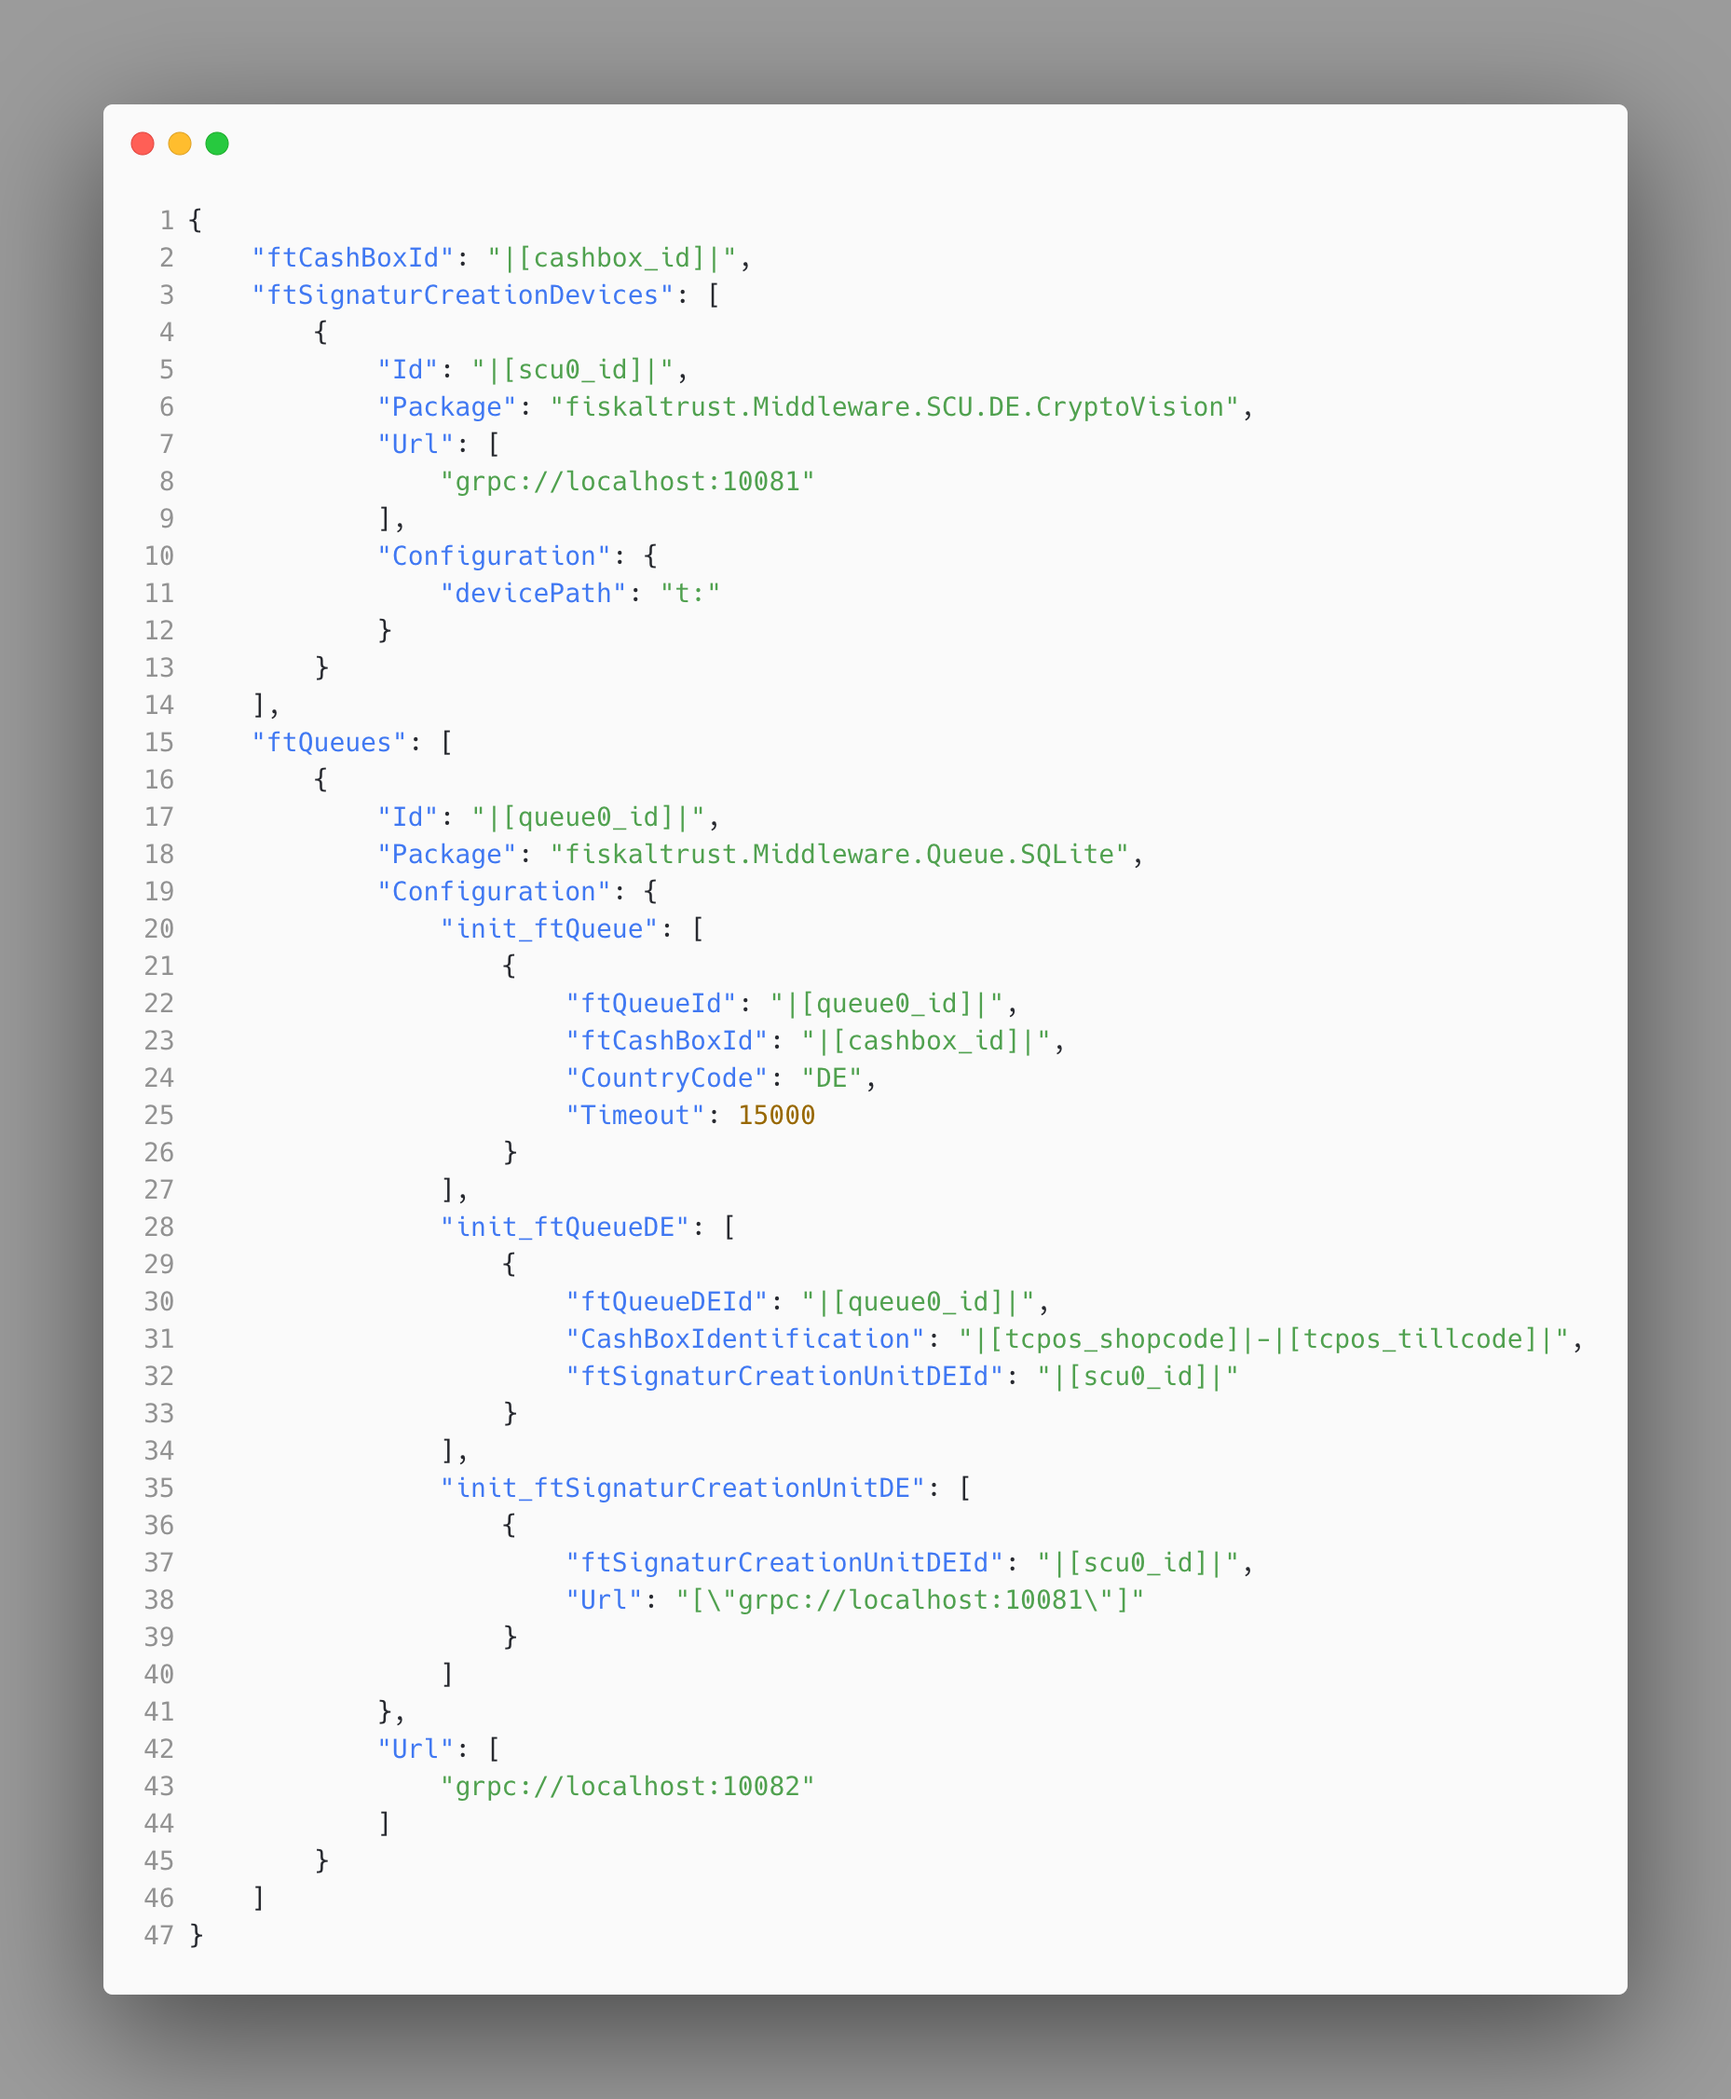
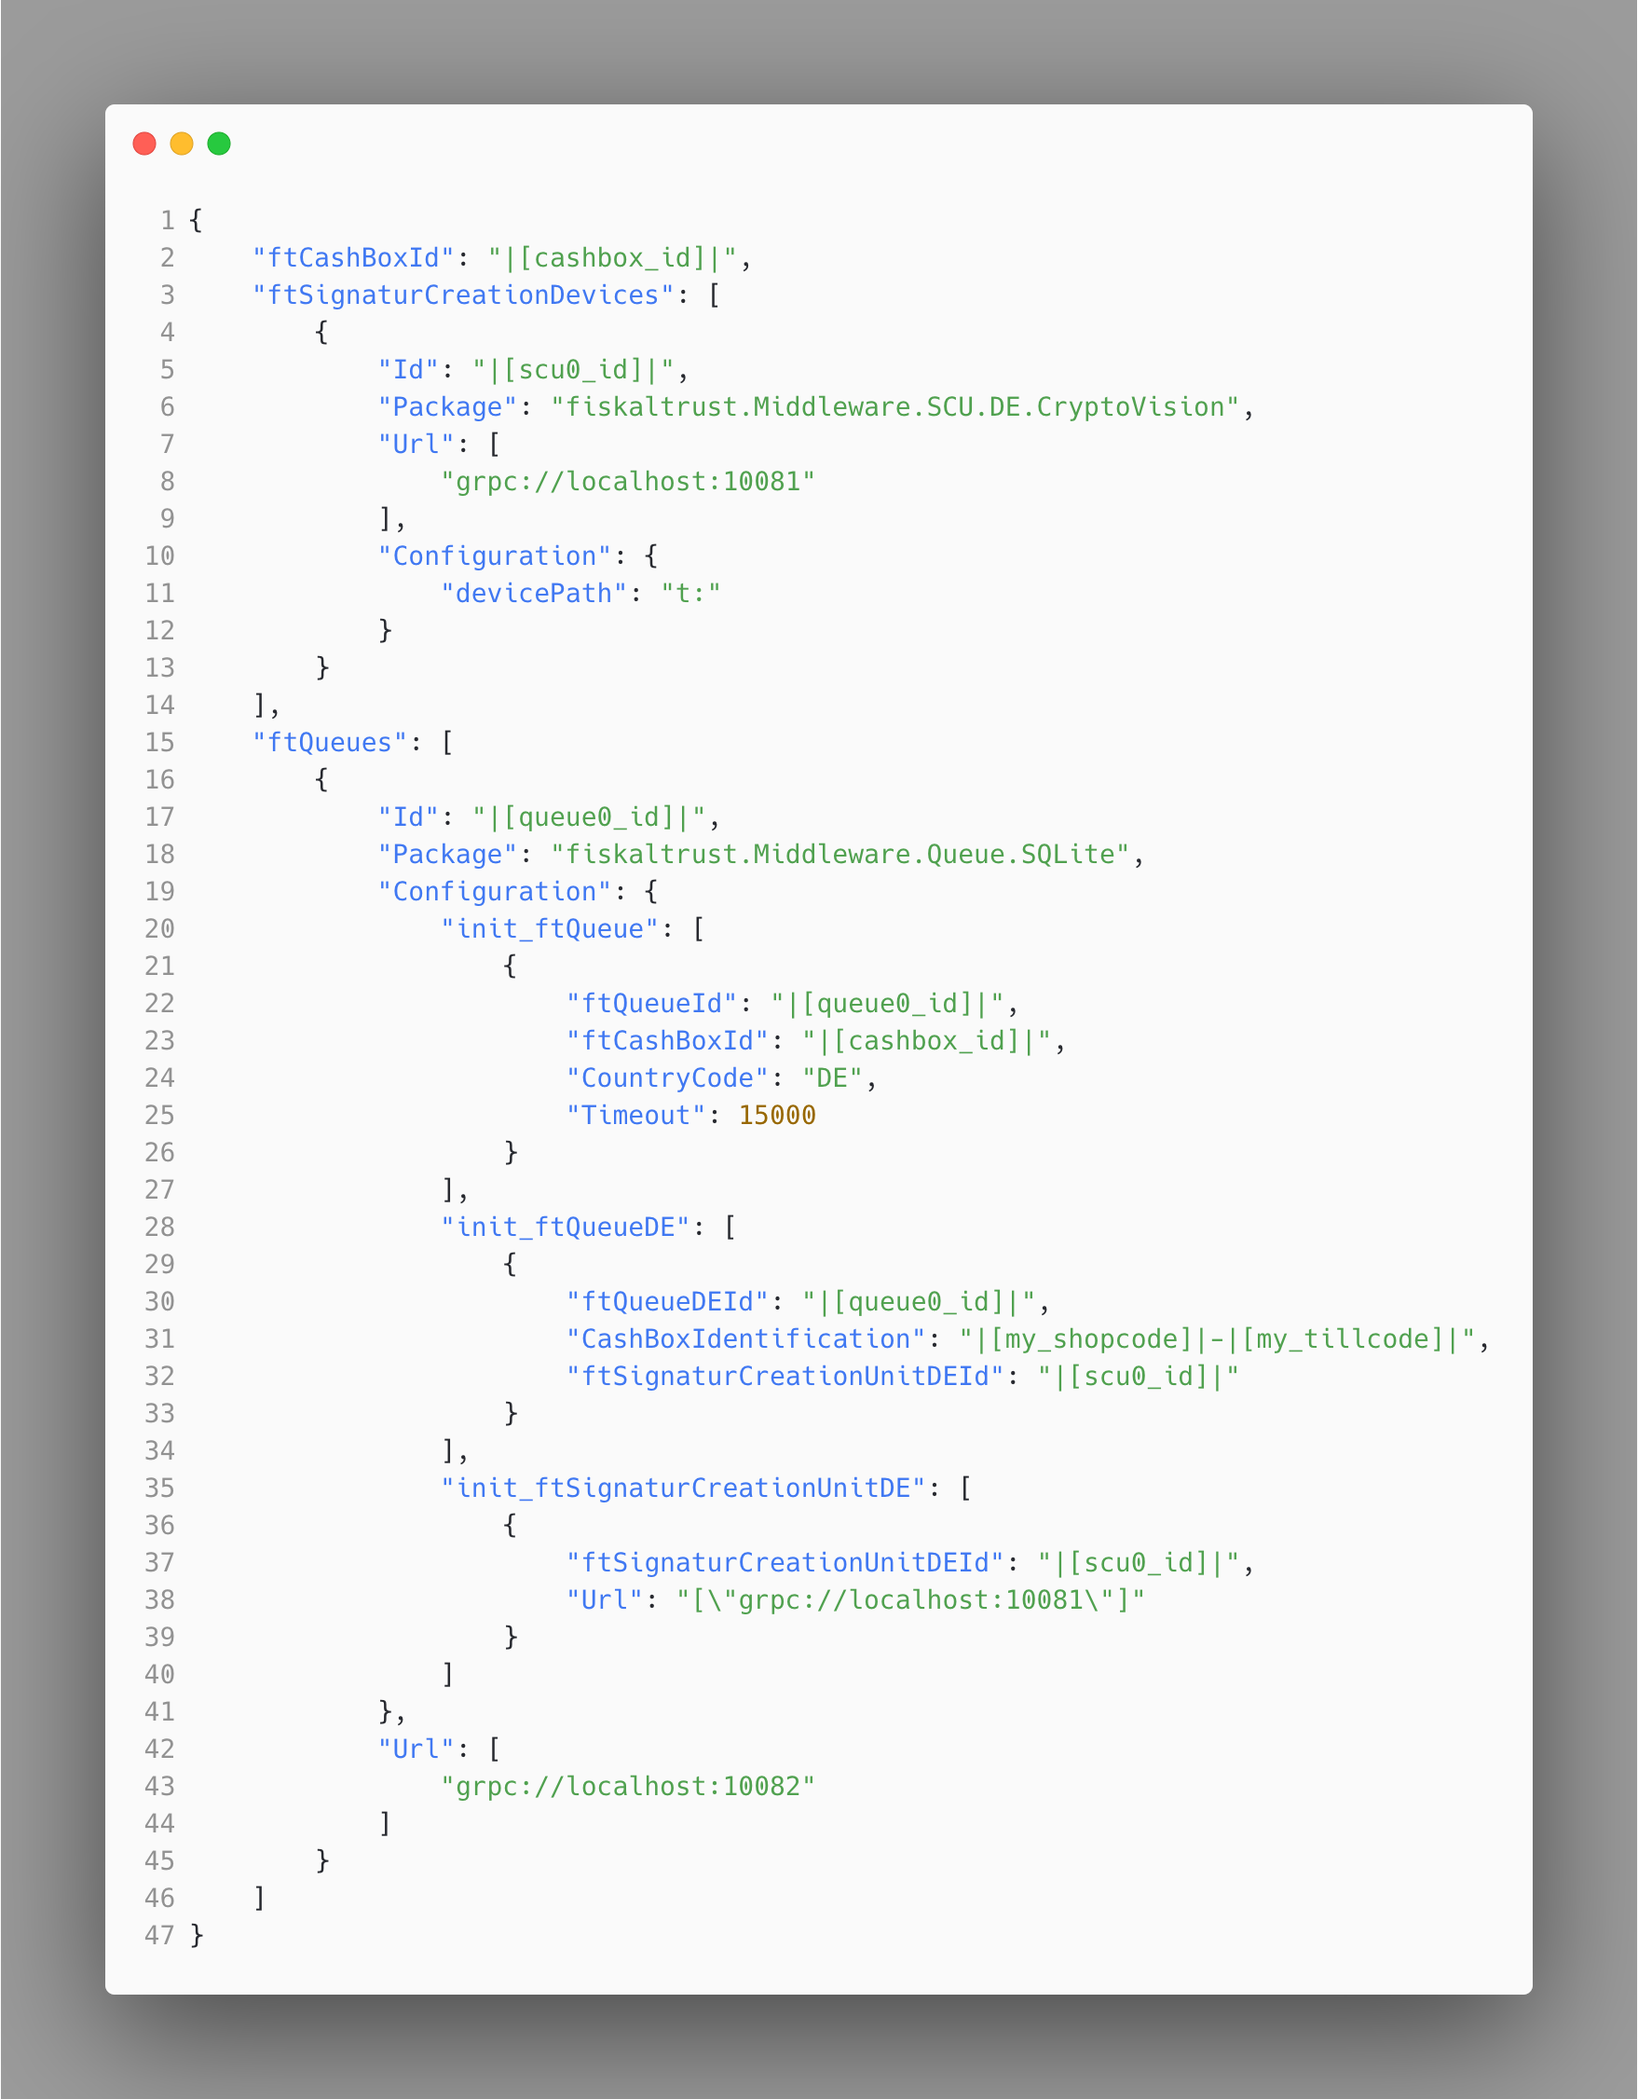
work on template documentation

diff --git a/for-posdealers/02-pre-sales/automatisierter-rollout.md b/for-posdealers/02-pre-sales/automatisierter-rollout.md
@@ -79,15 +79,130 @@ Im Folgenden werden die einzelenen Schritte des oben beschriebenen Prozess detai
 
 ### Erstellung und Inhalte des Konfiguration-Template
 
-Das Template ist ein JSON String der die Konfigurationen von Queues, SCUs, Helper und anderen Elementen beinhalten kann. Werte können statisch ausgefüllt oder es können Variablen verwendet werden. 
+Das Template ist ein JSON String der eine parametrisierbare Variante der Cashbox (Konfigurationskontainer als JSON String) darstellt und somit die Konfigurationen von Queues, SCUs, Helper und anderen Elementen beinhalten kann. Parametrisierbar ist es insofern, dass hier die Struktur für die zu generierende Cashbox definiert werden kann (z.B. fünf Queues, eine SCU) und dass bei den den Werten Variablen als Platzhalter eingesetzt werden können. Sobald die Generierung der daraus resultierenden Cashbox stattfindet werden die Variablen mit konkreten und finalen Werten befüllt.
 
-Im folgenden Bild wird ein Template visualisiert - download unter [template1.json](media/template1.json)
+Im folgenden Bild wird ein Beispiel eines solchen Template visualisiert - download unter [template1.json](media/template1.json)
 
 ![Template Beispiel](media/template1.png)
 
+Variablen werden gekennzeichnet indem sie innerhalb von ```|[``` und  ```]|``` angegeben werden. Moglich hierbei ist die Angabe von Systemvariablen, d.h. Variablen die vom System bei der Generierung bestimmt werden und die Angabe eigener Variablen deren Werte später über einen API Aufruf zum Generieren der Cashbox übergeben werden können. 
+
+In Zeile 1 wird zum Beispiel die Systemvariable: ```|[cashbox_id]|```  als Wert für ```"ftCashBoxId"``` angegeben. Hierbei geht es um die CashboxID, einem Wert, der automatisch von dem System generiert wird und beim Generieren der Cashbox dort hineingeschrieben wird.
+
+In Zeile 31 des obigen Beispiels werden eigene Variablen verwendent (```|[my_shopcode]|``` und ```|[my_tillcode]|``` ) deren konkrete Werte dann später beim API Aufruf übergeben werden.  Wie in Zeile 31 zu sehen ist, können die Werte aus einer kombination von Variablen und statischen Teilen bestehen. Sie können aber auch nur statischen "Text" beinhalten oder auch nur eine Variable.
+
+Folgende Tabellen zeigen die möglichen Inhalte (Datenstruktur) eines Template:
+
+| **Fieldname**        | **Pflicht**              | **Inhalt**          | **Beschreibung**          |
+|----------------------|--------------------------|--------------------------|---------------------|
+| `ftCashBoxId` |ja | ```GUID String``` | Identifiziert die Cashbox im fiskaltrust System und muss daher eindeutig sein. Wird später ein Teil der Authentifizierung der Registrierkasse mit fiskaltrust. Die Systemvariable ```|[cashbox_id]|```  kann hier verwendet werden um den Wert bei Generierung der Cashbox von fiskaltrust automatisch zu vergeben und einzusetzen. |
+| `ftSignaturCreationDevices` |nein | `PackageConfiguration [ ]` | Array, beinhaltet die Konfigurationen der zu verwendenden SCUs |
+| `ftQueues` |nein | `PackageConfiguration [ ]` | Array, beinhaltet die Konfigurationen der zu verwendenden Queues |
+| `helpers` |nein | `PackageConfiguration [ ]` | Array, beinhaltet die Konfigurationen der zu verwendenden Helper |
+| `TimeStamp` |nein | ```DateTime.UtcNow.Ticks``` | Zeitpunkt der  Erstellung des Template|
+
+Ein `PackageConfiguration` Objekt ist wie folgt aufgebaut:
+
+| **Fieldname**        | **Pflicht**              | **Inhalt**          | **Beschreibung**          |
+|----------------------|--------------------------|--------------------------|---------------------|
+| `Id` |ja |  ```GUID String```  | Identifiziert die Instanz des Elements, das hier konfiguriert wird (SCU oder Queue oder Helper). Für die Queue kann hier die Systemvariable `queue[0...n]_id` verwendet werden. Für die SCU kann hier die Systemvariable `scu[0...n]_id` zum Einsatz kommen. Für Helper  `helper[0...n]_id`.|
+| `Package` |ja | ```String``` | Name des Package das zum Erstellen des Elements verwendet werden soll. Z.b. `fiskaltrust.Middleware.SCU.DE.CryptoVision` für eine SCU, die mit einer Cyptovision-TSE kommunizieren soll.|
+| `Version` |ja |  ```String```| Version des Package das zum Erstellen des Elements verwendet werden soll.|
+| `Configuration` |nein | `<String, Object>`| Key-Value Pairs die zur Konfiguration des Elements benötigt werden. Z.B. Laufwerksbuchstabe der TSE bei der Cryptovision SCU, damit diese weiß wie sie auf die TSE Zugreifen soll. Je nach Element-Typ zu befüllen. Siehe unten. |
+| `URL` |ja | `String []` | Array, Kommunikationsendpunkte des Elements, das hier konfiguriert wird. Z.B. REST Endpunkt für die Kommunikation mit der Queue. |
+
+**Queue**
+Folgende Key-Value Pairs werden in dem `Configuration` Objekt einer Queue verwendet:
+
+| **Fieldname**        | **Pflicht**              | **Inhalt**          | **Beschreibung**          |
+|----------------------|--------------------------|--------------------------|---------------------|
+| `init_ftQueue` |ja |  ```Configuration``` | Allgemeiner Teil der Queue Konfiguration.|
+| `init_ftQueueDE` |ja |  ```Configuration``` | Länderspezifischer Teil der Queue Konfiguration.|
+| `init_ftSignaturCreationUnitDE` |nein |  ```Configuration``` | Zum Verknüpfen der Queue mit einer SCU. Hier werden Verbindungswerte hinterlegt.|
+| `connectionstring` |nein |  ```String``` | Wenn eine externe Datenbank verwendet wird.|
+
+Folgende Key-Value Pairs werden in dem `Configuration` Objekt einer Queue im Feld `init_ftQueue`  verwendet:
+
+| **Fieldname**        | **Pflicht**              | **Inhalt**          | **Beschreibung**          |
+|----------------------|--------------------------|--------------------------|---------------------|
+| `ftQueueId` |ja |  ```GUID String``` | Identifikation der Queue. Die Systemvariable `queue[0...n]_id` kann verwendet werden.|
+| `ftCashBoxId` |ja |  ```GUID String``` | Identifikation  der Cashbox. Die Systemvariable ```|[cashbox_id]|```  kann hier verwendet werden.|
+| `CountryCode` |ja |  ```String``` | Länderkürzel. Für Deutschland: "DE".|
+| `Timeout` |nein |  ```Int``` | Zum Verknüpfen der Queue mit einer SCU.|
+
+Folgende Key-Value Pairs werden in dem `Configuration` Objekt einer Queue im Feld `init_ftQueueDE`  verwendet:
+
+| **Fieldname**        | **Pflicht**              | **Inhalt**          | **Beschreibung**          |
+|----------------------|--------------------------|--------------------------|---------------------|
+| `ftQueueDEId` |ja |  ```GUID String``` | Identifikation der Queue. Die Systemvariable `queue[0...n]_id` kann verwendet werden.|
+| `CashBoxIdentification` |ja |  ```printable String (20)``` | Kassenseriennummer. Wird auch als Client-ID für die TSE verwendet. Printable String, max. 20 Zeichen.|
+| `ftSignaturCreationUnitDEId` |ja |  ```GUID String```  | Die ID der SCU mit der sich diese Queue verbinden soll.|
+
+Folgende Key-Value Pairs werden in dem `Configuration` Objekt einer Queue im Feld `init_ftSignaturCreationUnitDE`  verwendet:
+| **Fieldname**        | **Pflicht**              | **Inhalt**          | **Beschreibung**          |
+|----------------------|--------------------------|--------------------------|---------------------|
+| `ftSignaturCreationUnitDEId` |ja |  ```GUID String``` | Identifikation der SCU. Die Systemvariable `scu[0...n]_id` kann verwendet werden.|
+| `Url` |ja |  ```String``` | Kommunikationsendpunkte der SCU die hier verwendet werden können. Als Array im String Bsp: ```"[\"grpc://localhost:10081\", \"grpc://localhost:10082\"]"```. Normalerweise wird nur ein Endpunkt benötigt.|
+
+**SCU**
+Folgende Key-Value Pairs werden in dem `Configuration` Objekt einer SCU je nach Hersteller der TSE verwendet:
+
+**Swissbit TSE**
+| **Fieldname**        | **Pflicht**              | **Inhalt**          | **Beschreibung**          |
+|----------------------|--------------------------|--------------------------|---------------------|
+| `devicePath` |ja |  ```String``` | Laufwerksbuchstabe gefolgt von Doppelpunkt (z.B. `E:`). Representiert das Laufwerk an dem die Swissbit TSE an der Kasse angeschossen wird.|
+| `adminPin` |nein |  ```String``` | Admin PIN. Nur anzugeben wenn es sich um eine außerhalb von fiskaltrust initialisierte TSE handelt. Falls die TSE noch nicht initialisiert ist, wird dieser Wert nicht benötigt.|
+| `timeAdminPin` |nein |  ```String``` | Time Admin PIN. Nur anzugeben wenn es sich um eine außerhalb von fiskaltrust initialisierte TSE handelt. Falls die TSE noch nicht initialisiert ist, wird dieser Wert nicht benötigt.|
+
+**Cryptovision TSE**
+| **Fieldname**        | **Pflicht**              | **Inhalt**          | **Beschreibung**          |
+|----------------------|--------------------------|--------------------------|---------------------|
+| `devicePath` |ja |  ```String``` | Laufwerksbuchstabe gefolgt von Doppelpunkt (z.B. `E:`). Representiert das Laufwerk an dem die Cryptovision TSE an der Kasse angeschossen wird.|
+| `adminPin` |nein |  ```String``` | Admin PIN. Nur anzugeben wenn es sich um eine außerhalb von fiskaltrust initialisierte TSE handelt. Falls die TSE noch nicht initialisiert ist, wird dieser Wert nicht benötigt.|
+| `timeAdminPin` |nein |  ```String``` | Time Admin PIN. Nur anzugeben wenn es sich um eine außerhalb von fiskaltrust initialisierte TSE handelt. Falls die TSE noch nicht initialisiert ist, wird dieser Wert nicht benötigt.|
+
+**Diebold Nixdorf**
+| **Fieldname**        | **Pflicht**              | **Inhalt**          | **Beschreibung**          |
+|----------------------|--------------------------|--------------------------|---------------------|
+| `comPort` |ja |  ```String``` | Definiert den Com Anschluß an, an den die TSE angeschlossen wird. Zum Beispiel `COM6`.|
+| `url` |nein |  ```String``` | TODO|
+| `adminUser` |nein |  ```String``` | Admin Username. Nur anzugeben wenn es sich um eine außerhalb von fiskaltrust initialisierte TSE handelt. Falls die TSE noch nicht initialisiert ist, wird dieser Wert nicht benötigt.|
+| `adminPin` |nein |  ```String``` | Admin PIN. Nur anzugeben wenn es sich um eine außerhalb von fiskaltrust initialisierte TSE handelt. Falls die TSE noch nicht initialisiert ist, wird dieser Wert nicht benötigt.|
+| `timeAdminUser` |nein |  ```String``` | Time Admin Username. Nur anzugeben wenn es sich um eine außerhalb von fiskaltrust initialisierte TSE handelt. Falls die TSE noch nicht initialisiert ist, wird dieser Wert nicht benötigt.|
+| `timeAdminPin` |nein |  ```String``` | Time Admin PIN. Nur anzugeben wenn es sich um eine außerhalb von fiskaltrust initialisierte TSE handelt. Falls die TSE noch nicht initialisiert ist, wird dieser Wert nicht benötigt.|
+| `slotNumber` |nein |  ```Int``` | TODO|
+
+**Epson** 
+| **Fieldname**        | **Pflicht**              | **Inhalt**          | **Beschreibung**          |
+|----------------------|--------------------------|--------------------------|---------------------|
+| `tseurl` |ja |  ```String``` | Url zum Verbinden mit der TSE. Hier wird die TSE erreichbar sein |
+| `tseport` |nein |  ```String``` | Port zum Verbinden mit der TSE. Hier wird die TSE erreichbar sein|
+| `deviceid` |nein |  ```String``` | Device Id beim Epson Server.|
+| `timeout` |nein |  ```String``` | Timeout|
+
+**Fiskaly**
+| **Fieldname**        | **Pflicht**              | **Inhalt**          | **Beschreibung**          |
+|----------------------|--------------------------|--------------------------|---------------------|
+| `apiKey` |ja |  ```String``` | Fiskaly API Schlüssel |
+| `apiSecret` |ja |  ```String``` | Fiskaly API Secret |
+| `tssId` |ja |  ```GUID String``` | ID der TSE von Fiskaly |
+
+
 ### Zur Verfügung stellen des Konfiguration-Template über das Portal
+
+(TODO)
+- Anlegen unter `Konfiguration->Templates``
+- Fereigeben an Zielgruppe
 
 ### Manuelles Ausführen der Konfiguration-Template
 
+(TODO)
+- Durch Checkout im Shop unter dem Account des Betreibers
+- Outlet berücksichtigen
 
 ## Nutzung von API oder PowerShell zum Ausführen der Templates
+
+
+### API
+### PowerShell
+
